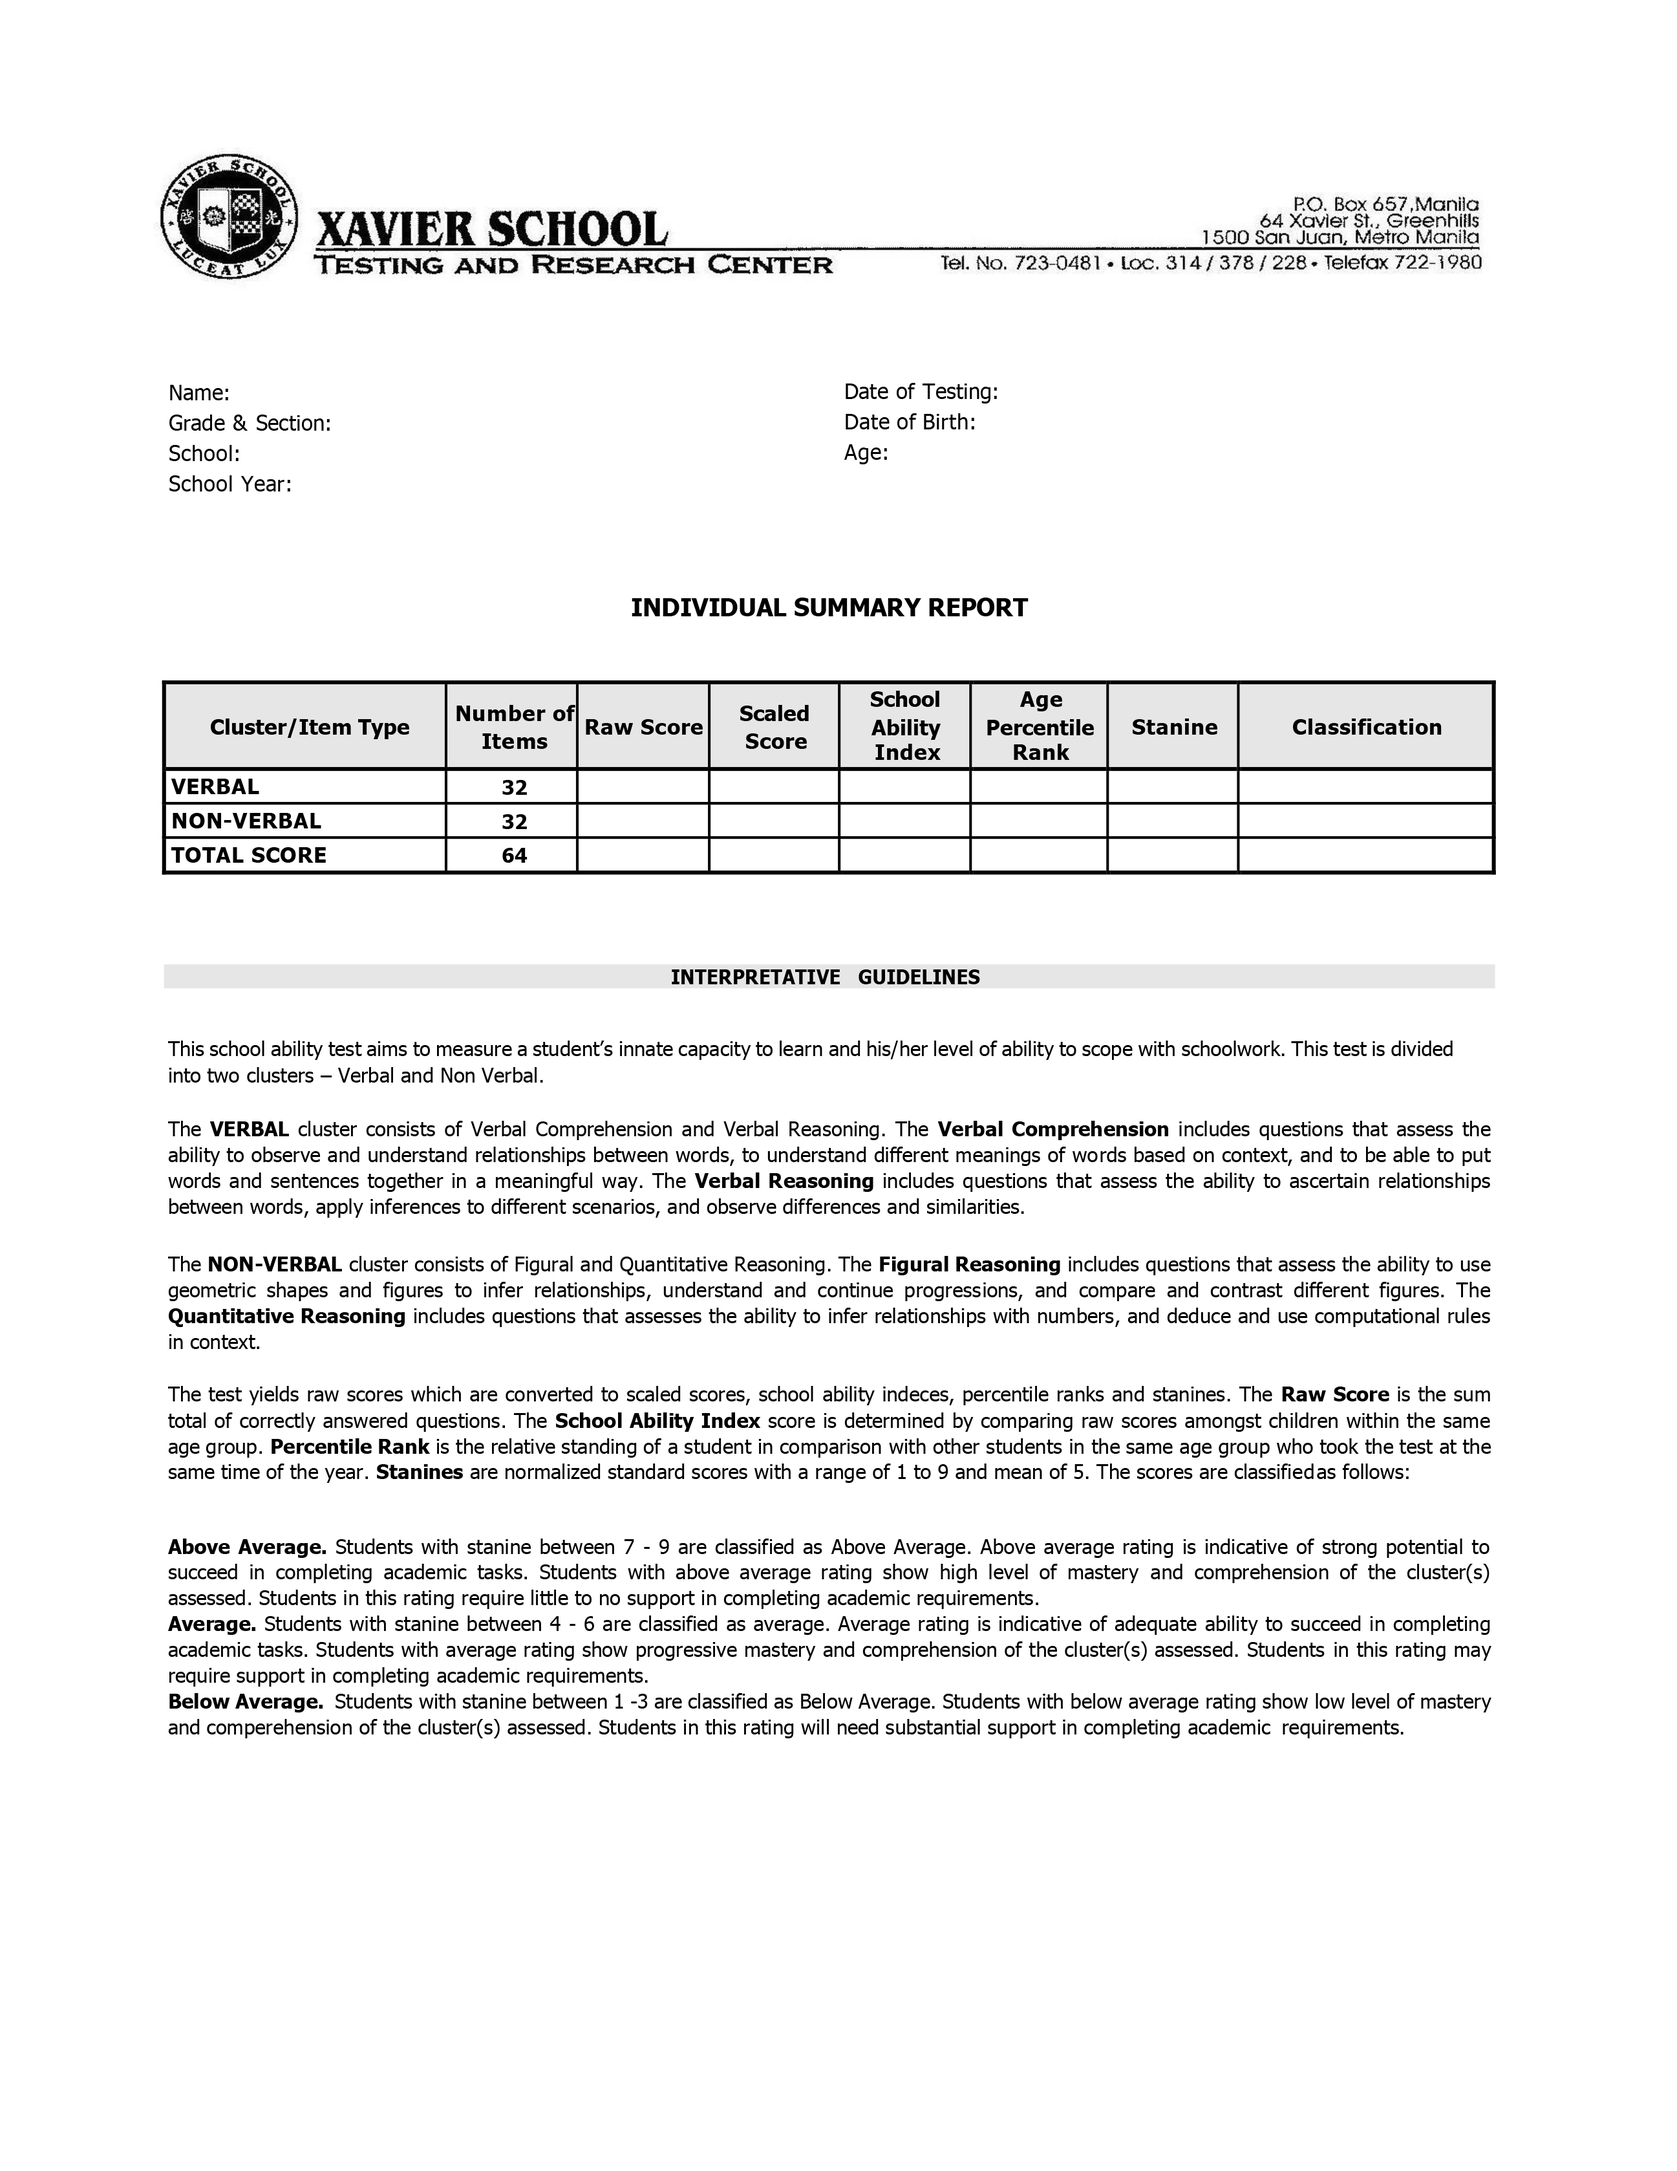
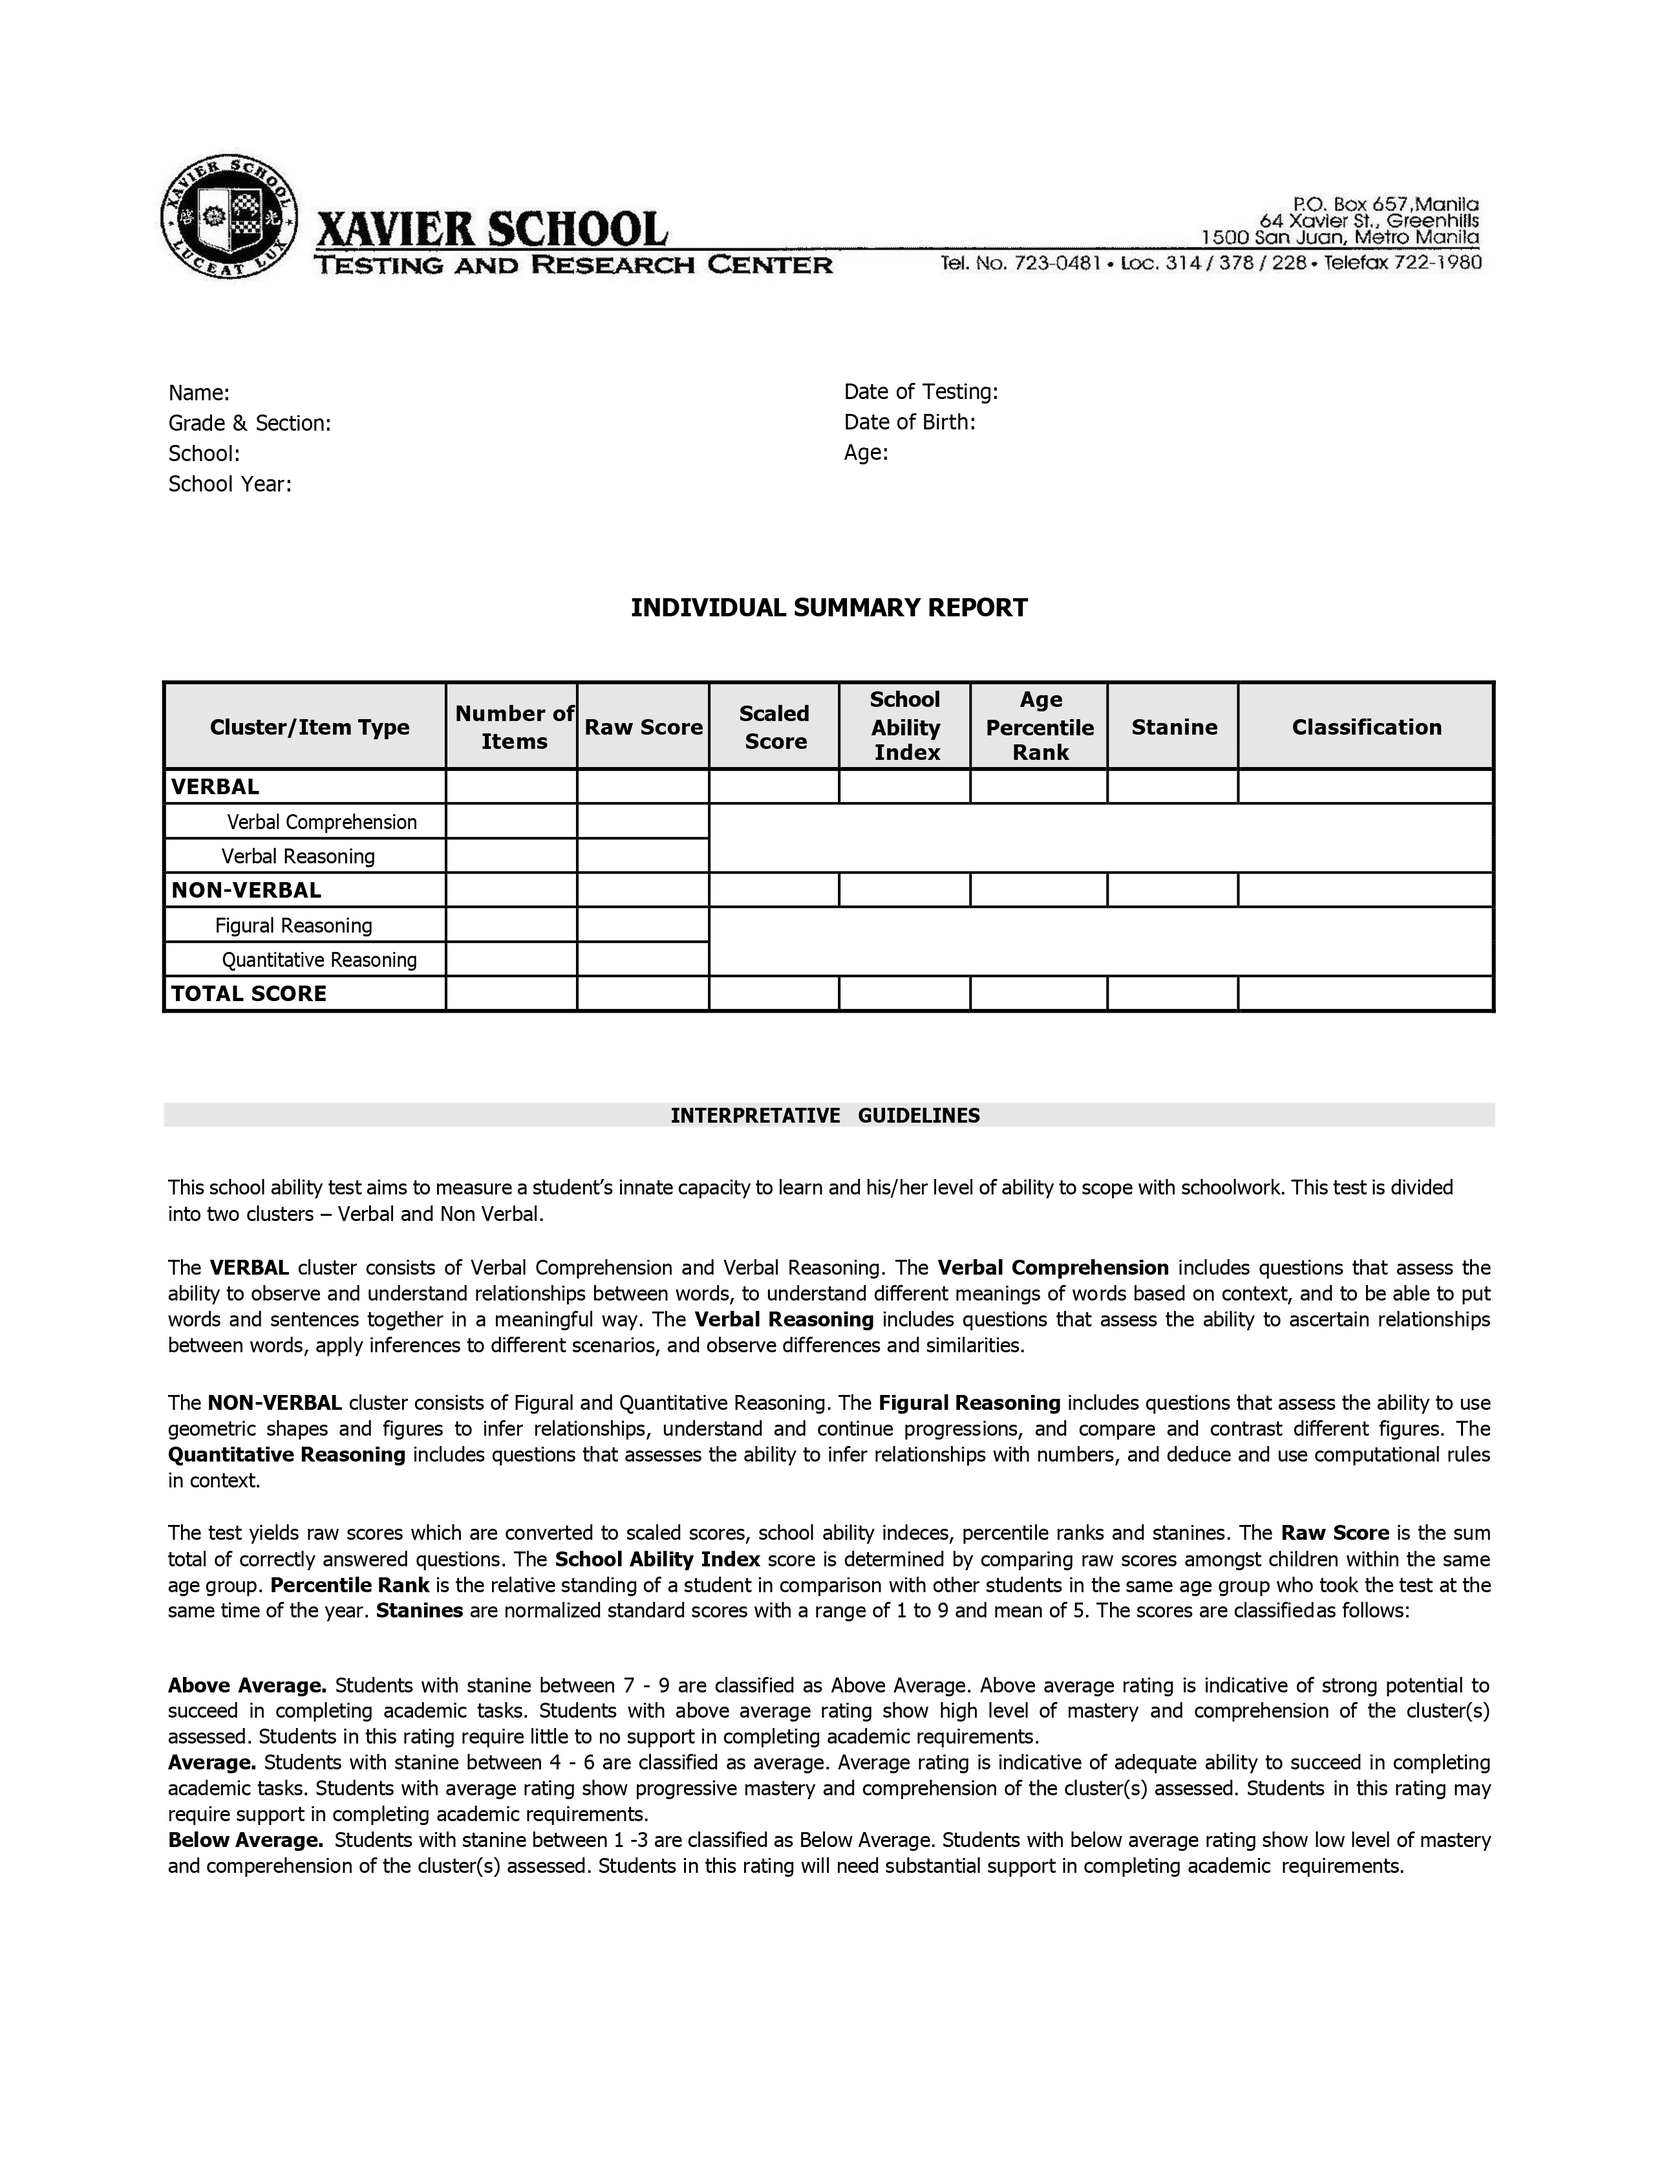
Finalized individual PDF result, fixed button submission issue

diff --git a/public/css/argon-dashboard.css b/public/css/argon-dashboard.css
@@ -22281,206 +22281,177 @@ ul.stepper li.completed a .label {
 
 .text-2 {
   position: absolute;
-  top: 17.2%;
-  left: 14.5%;
-  font-weight: bolder;
-  font-size: 4
+  top: 17.3%;
+  left: 15%;
 }
+
 
 .text-3 {
   position: absolute;
-  top: 18.6%;
-  left: 20.5%;
-  font-weight: bolder;
-  font-size: 4
+  top: 18.7%;
+  left: 21%;
 }
 
 .text-4 {
   position: absolute;
-  top: 20%;
-  left: 15.5%;
-  font-weight: bolder;
-  font-size: 4
+  top: 20.1%;
+  left: 16%;
 }
 
 .text-5 {
   position: absolute;
-  top: 21.4%;
+  top: 21.5%;
   left: 18.5%;
-  font-weight: bolder;
-  font-size: 4
 }
 
 .text-6 {
   position: absolute;
-  top: 17.2%;
-  left: 61%;
-  font-weight: bolder;
-  font-size: 4
+  top: 17.3%;
+  left: 61.9%;
 }
 
 .text-7 {
   position: absolute;
-  top: 18.5%;
-  left: 60%;
-  font-weight: bolder;
-  font-size: 4
+  top: 18.8%;
+  left: 61%;
 }
 
 .text-8 {
   position: absolute;
-  top: 19.9%;
-  left: 55%;
-  font-weight: bolder;
-  font-size: 4
+  top: 20.1%;
+  left: 54.5%;
 }
-
-
 
 .text-9 {
   position: absolute;
-  top: 35.4%;
-  left: 37.2%;
-  font-weight: bolder;
-  font-size: 4
+  top: 35.5%;
+  left: 37.9%;
 }
 
 .text-10 {
   position: absolute;
-  top: 37%;
-  left: 37.2%;
-  font-weight: bolder;
-  font-size: 4
+  top: 40.3%;
+  left: 37.9%;
 }
 
 .text-11 {
   position: absolute;
-  top: 38.6%;
-  left: 37.2%;
-  font-weight: bolder;
-  font-size: 4
+  top: 44.9%;
+  left: 37.9%;
 }
 
 .text-12 {
   position: absolute;
-  top: 35.4%;
+  top: 35.5%;
   left: 45.2%;
-  font-weight: bolder;
-  font-size: 4
 }
 
 .text-13 {
   position: absolute;
-  top: 37%;
+  top: 40.3%;
   left: 45.2%;
-  font-weight: bolder;
-  font-size: 4
 }
 
 .text-14 {
   position: absolute;
-  top: 38.6%;
+  top: 44.9%;
   left: 45.2%;
-  font-weight: bolder;
-  font-size: 4
 }
 
 
 .text-15 {
   position: absolute;
-  top: 35.4%;
+  top: 35.5%;
   left: 53.2%;
-  font-weight: bolder;
-  font-size: 4
 }
 
 .text-16 {
   position: absolute;
-  top: 37%;
+  top: 40.3%;
   left: 53.2%;
-  font-weight: bolder;
-  font-size: 4
 }
 
 .text-17 {
   position: absolute;
-  top: 38.6%;
+  top: 44.9%;
   left: 53.2%;
-  font-weight: bolder;
-  font-size: 4
 }
-
 
 .text-18 {
   position: absolute;
-  top: 35.4%;
+  top: 35.5%;
   left: 61.2%;
-  font-weight: bolder;
-  font-size: 4
 }
 
 .text-19 {
   position: absolute;
-  top: 37%;
+  top: 40.3%;
   left: 61.2%;
-  font-weight: bolder;
-  font-size: 4
 }
 
 .text-20 {
   position: absolute;
-  top: 38.6%;
+  top: 44.9%;
   left: 61.2%;
-  font-weight: bolder;
-  font-size: 4
 }
 
 .text-21 {
   position: absolute;
-  top: 35.4%;
+  top: 35.5%;
   left: 69.2%;
-  font-weight: bolder;
-  font-size: 4
 }
 
 .text-22 {
   position: absolute;
-  top: 37%;
+  top: 40.3%;
   left: 69.2%;
-  font-weight: bolder;
-  font-size: 4
 }
 
 .text-23 {
   position: absolute;
-  top: 38.6%;
+  top: 44.9%;
   left: 69.2%;
-  font-weight: bolder;
-  font-size: 4
 }
 
 .text-24 {
   position: absolute;
-  top: 35.3%;
-  left: 76.2%;
-  font-weight: bolder;
-  font-size: 4
+  top: 35.5%;
+  left: 74.2%;
 }
 
 .text-25 {
   position: absolute;
-  top: 36.9%;
-  left: 76.2%;
-  font-weight: bolder;
-  font-size: 4
+  top: 40.3%;
+  left: 74.2%;
 }
 
 .text-26 {
   position: absolute;
-  top: 38.5%;
-  left: 76.2%;
-  font-weight: bolder;
-  font-size: 4
+  top: 44.9%;
+  left: 74.2%;
+}
+
+.text-27 {
+  position: absolute;
+  top: 37.1%;
+  left: 37.9%;
 }
 
 
+.text-28 {
+  position: absolute;
+  top: 38.7%;
+  left: 37.9%;
+}
+
+.text-29 {
+  position: absolute;
+  top: 41.9%;
+  left: 37.9%;
+}
+
+.text-30 {
+  position: absolute;
+  top: 43.4%;
+  left: 37.9%;
+}

diff --git a/public/css/pdf.css b/public/css/pdf.css
@@ -206,3 +206,28 @@ footer {
   top: 43.1%;
   left: 81.2%;
 }
+
+.text-27 {
+  position: absolute;
+  top: 34%;
+  left: 36.2%;
+}
+
+
+.text-28 {
+  position: absolute;
+  top: 36%;
+  left: 36.2%;
+}
+
+.text-29 {
+  position: absolute;
+  top: 39.5%;
+  left: 36.2%;
+}
+
+.text-30 {
+  position: absolute;
+  top: 41.4%;
+  left: 36.2%;
+}

diff --git a/resources/views/total_score_info.blade.php b/resources/views/total_score_info.blade.php
@@ -268,30 +268,35 @@
             <img  style="width: 100%; height: 100%;" src="{{asset('./img/pdf/PDF.png')}}">
             </a>
             <div class="text-2">{{$total_score_details->student_name}}</div>
-            <div class="text-3 text-dark">{{$total_score_details->grade}}</div>
-            <div class="text-4 text-dark">Xavier School San Juan</div>
-            <div class="text-5 text-dark"></div>
-            <div class="text-6 text-dark">January 10, 2020</div>
-            <div class="text-7 text-dark">{{$total_score_details->birthday}}</div>
-            <div class="text-8 text-dark">{{$total_score_details->rounded_current_age_in_years}}.{{$total_score_details->rounded_current_age_in_months}} Years old</div>
-            <div class="text-9 text-dark">{{$total_score_details->verbal_raw}}</div>
-            <div class="text-10 text-dark">{{$total_score_details->nonverbal_raw}}</div>
-            <div class="text-11 text-dark">{{$total_score_details->total_raw}}</div>
-            <div class="text-12 text-dark">{{$total_score_details->verbal_scaled}}</div>
-            <div class="text-13 text-dark">{{$total_score_details->nonverbal_scaled}}</div>
-            <div class="text-14 text-dark">{{$total_score_details->total_scaled}}</div>
-            <div class="text-15 text-dark">{{$total_score_details->verbal_sai}}</div>
-            <div class="text-16 text-dark">{{$total_score_details->nonverbal_sai}}</div>
-            <div class="text-17 text-dark">{{$total_score_details->total_sai}}</div>
-            <div class="text-18 text-dark">{{$total_score_details->verbal_percentile}}</div>
-            <div class="text-19 text-dark">{{$total_score_details->nonverbal_percentile}}</div>
-            <div class="text-20 text-dark">{{$total_score_details->total_percentile}}</div>
-            <div class="text-21 text-dark">{{$total_score_details->verbal_stanine}}</div>
-            <div class="text-22 text-dark">{{$total_score_details->nonverbal_stanine}}</div>
-            <div class="text-23 text-dark">{{$total_score_details->total_stanine}}</div>
-            <div class="text-24 text-dark"></div>
-            <div class="text-25 text-dark"></div>
-            <div class="text-26 text-dark"></div>
+            <div class="text-3">{{$total_score_details->grade}}-{{$total_score_details->section}}</div>
+            <div class="text-4">Xavier School San Juan</div>
+            <div class="text-5"></div>
+            <div class="text-6">{{$total_score_details->exam_date}}</div>
+            <div class="text-7">{{$total_score_details->birthday}}</div>
+            <div class="text-8">{{$total_score_details->rounded_current_age_in_years}}.{{$total_score_details->rounded_current_age_in_months}}</div>
+            <div class="text-9">{{$total_score_details->verbal_raw}}</div>
+            <div class="text-10">{{$total_score_details->nonverbal_raw}}</div>
+            <div class="text-11">{{$total_score_details->total_raw}}</div>
+            <div class="text-12">{{$total_score_details->verbal_scaled}}</div>
+            <div class="text-13">{{$total_score_details->nonverbal_scaled}}</div>
+            <div class="text-14">{{$total_score_details->total_scaled}}</div>
+            <div class="text-15">{{$total_score_details->verbal_sai}}</div>
+            <div class="text-16">{{$total_score_details->nonverbal_sai}}</div>
+            <div class="text-17">{{$total_score_details->total_sai}}</div>
+            <div class="text-18">{{$total_score_details->verbal_percentile}}</div>
+            <div class="text-19">{{$total_score_details->nonverbal_percentile}}</div>
+            <div class="text-20">{{$total_score_details->total_percentile}}</div>
+            <div class="text-21">{{$total_score_details->verbal_stanine}}</div>
+            <div class="text-22">{{$total_score_details->nonverbal_stanine}}</div>
+            <div class="text-23">{{$total_score_details->total_stanine}}</div>
+            <div class="text-24">{{$total_score_details->verbal_classification}}</div>
+            <div class="text-25">{{$total_score_details->nonverbal_classification}}</div>
+            <div class="text-26">{{$total_score_details->total_classification}}</div>
+            
+            <div class="text-27">{{$total_score_details->verbal_comprehension}}</div>
+            <div class="text-28">{{$total_score_details->verbal_reasoning}}</div>
+            <div class="text-29">{{$total_score_details->figural_reasoning}}</div>
+            <div class="text-30">{{$total_score_details->quantitative_reasoning}}</div>
         </div>
 
         </form>

diff --git a/resources/views/student_result_export.blade.php b/resources/views/student_result_export.blade.php
@@ -13,7 +13,7 @@
             <div class="row-sm mt-4 picture-anchor">
             <img style="width: 100%; height: 100%;" src="./img/pdf/PDF_Export.png">
             <div class="text-2">{{$student_details->student_name}}</div>
-            <div class="text-3">{{$student_details->grade}}</div>
+            <div class="text-3">{{$student_details->grade}}-{{$student_details->section}}</div>
             <div class="text-4">Xavier School San Juan</div>
             <div class="text-5"></div>
             <div class="text-6">{{$student_details->exam_date}}</div>
@@ -37,6 +37,13 @@
             <div class="text-24">{{$student_details->verbal_classification}}</div>
             <div class="text-25">{{$student_details->nonverbal_classification}}</div>
             <div class="text-26">{{$student_details->total_classification}}</div>
+            
+            <div class="text-27">{{$student_details->verbal_comprehension}}</div>
+            <div class="text-28">{{$student_details->verbal_reasoning}}</div>
+            <div class="text-29">{{$student_details->figural_reasoning}}</div>
+            <div class="text-30">{{$student_details->quantitative_reasoning}}</div>
+
+            
         </div>
 
 </body>

diff --git a/resources/views/csv_student_upload.blade.php b/resources/views/csv_student_upload.blade.php
@@ -236,7 +236,7 @@
                           <form method="POST" action="{{ route('finalizeUpload') }}">
                           {{ csrf_field() }}
 
-                            <button type="submit" class="btn btn-primary">
+                            <button onclick="this.disabled=true; this.form.submit();" type="submit" class="btn btn-primary">
                                 Continue
                             </button>
                         </form>
